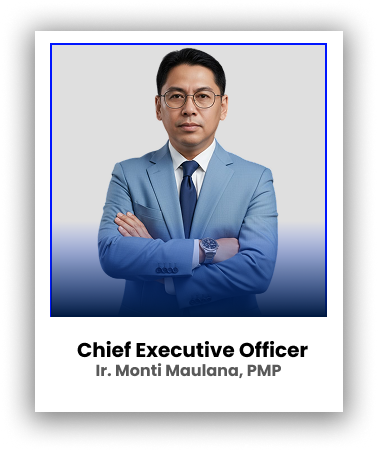
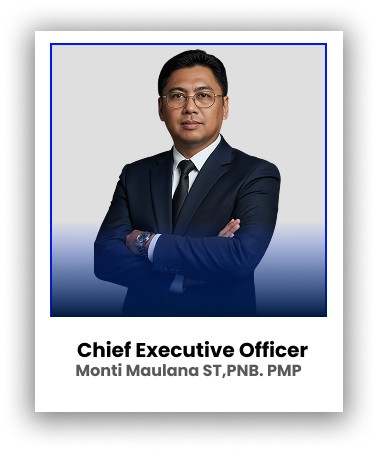
Compro Fix

Changed region(s): [[0.2328, 0.0931, 0.7566, 0.6829], [0.2037, 0.8071, 0.8148, 0.8381]]

diff --git a/js/script.js b/js/script.js
@@ -282,6 +282,76 @@ function initializeMobileDropdown() {
     };
 }
 
+function initializeContactForm() {
+    const contactForm = document.getElementById('contact-form');
+    if (!contactForm) return;
+
+    contactForm.addEventListener('submit', async function(e) {
+        e.preventDefault();
+        
+        const submitButton = this.querySelector('button[type="submit"]');
+        const originalText = submitButton.innerHTML;
+        const formMessage = document.getElementById('form-message');
+        
+        // Show loading state
+        submitButton.innerHTML = 'Sending...';
+        submitButton.disabled = true;
+        
+        // Get form data
+        const formData = new FormData(this);
+        const data = {
+            name: document.getElementById('name').value.trim(),
+            email: document.getElementById('email').value.trim(),
+            message: document.getElementById('message').value.trim()
+        };
+        
+        try {
+            const response = await fetch('send_email.php', {
+                method: 'POST',
+                headers: {
+                    'Content-Type': 'application/x-www-form-urlencoded',
+                },
+                body: new URLSearchParams(data)
+            });
+            
+            const result = await response.json();
+            
+            if (formMessage) {
+                formMessage.classList.remove('hidden');
+                if (result.success) {
+                    formMessage.classList.remove('text-red-600');
+                    formMessage.classList.add('text-green-600');
+                    contactForm.reset();
+                } else {
+                    formMessage.classList.remove('text-green-600');
+                    formMessage.classList.add('text-red-600');
+                }
+                formMessage.textContent = result.message;
+            }
+            
+        } catch (error) {
+            console.error('Error:', error);
+            if (formMessage) {
+                formMessage.classList.remove('hidden');
+                formMessage.classList.remove('text-green-600');
+                formMessage.classList.add('text-red-600');
+                formMessage.textContent = 'Network error. Please try again.';
+            }
+        } finally {
+            // Reset button state
+            submitButton.innerHTML = originalText;
+            submitButton.disabled = false;
+            
+            // Hide message after 5 seconds
+            if (formMessage) {
+                setTimeout(() => {
+                    formMessage.classList.add('hidden');
+                }, 5000);
+            }
+        }
+    });
+}
+
 function initializeEnhancedNavigation() {
     initializeAccurateNavigation();
 }
@@ -335,6 +405,8 @@ function initializeWebsite() {
         initI18n();
 
         initializeEnhancedNavigation();
+
+        initializeContactForm();
 
         setupMobileEnhancements();
 

diff --git a/css/style.css b/css/style.css
@@ -1,4 +1,3 @@
-/* CSS Variables for Color Palette */
 :root {
     --primary-blue: #0a2463;
     --secondary-blue: #1e40af;
